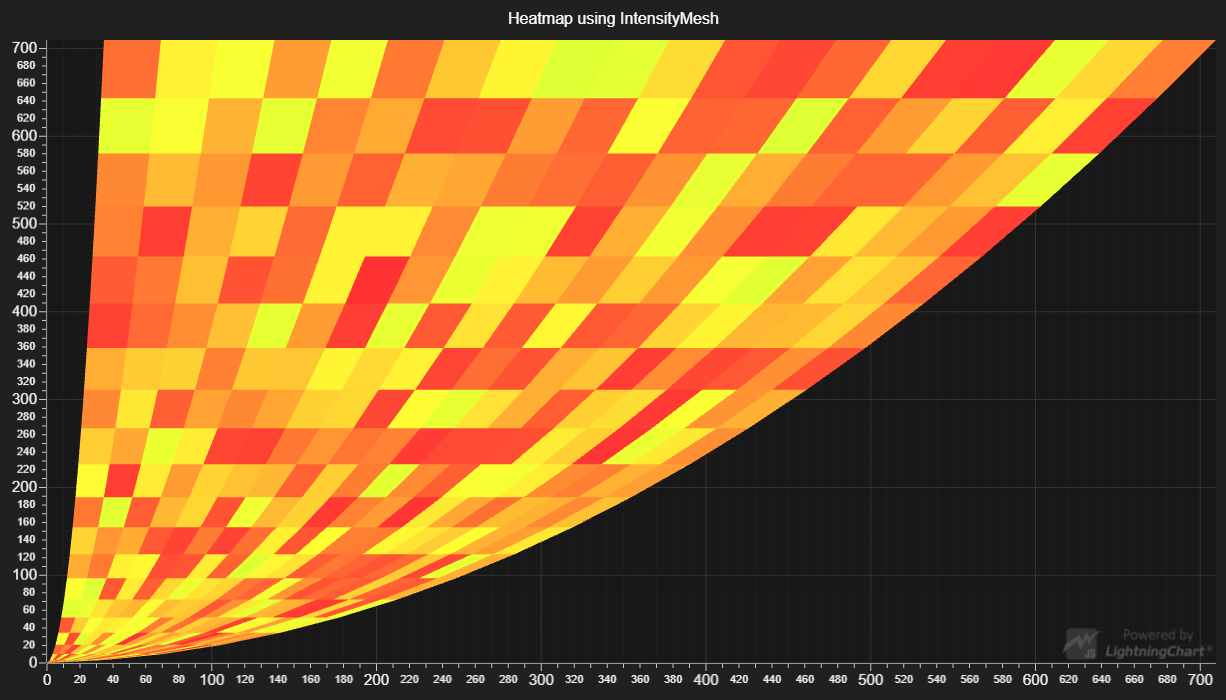
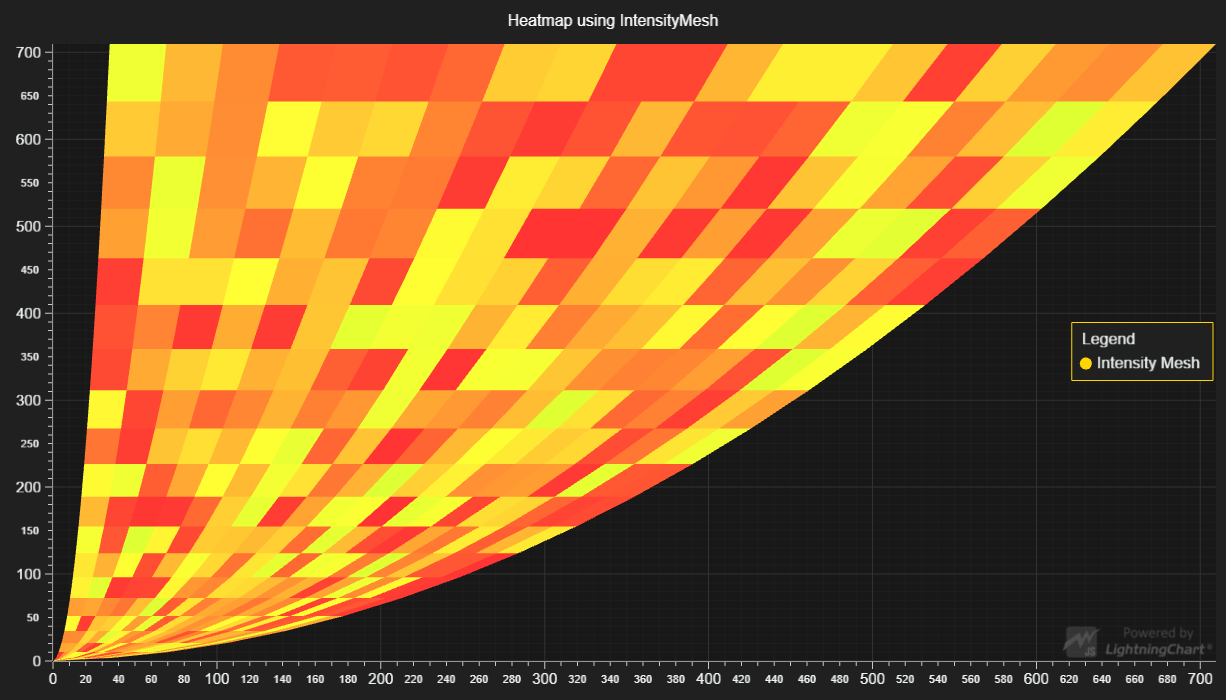
LCJS 3.0.0

diff --git a/src/index.js b/src/index.js
@@ -48,3 +48,6 @@ const heatmap = chart
         x: prev.x * Math.sin(degToRad(row + 1)),
         y: prev.x * Math.sin(degToRad(column + 1))
     }))
+
+// Add LegendBox to chart.
+const legend = chart.addLegendBox().add(chart)

diff --git a/README.md b/README.md
@@ -80,10 +80,10 @@ Direct developer email support can be purchased through a [Support Plan][4] or b
 © Arction Ltd 2009-2020. All rights reserved.
 
 
-[XY cartesian chart]: https://www.arction.com/lightningchart-js-api-documentation/v2.2.0/classes/chartxy.html
-[Intensity Mesh Series]: https://www.arction.com/lightningchart-js-api-documentation/v2.2.0/classes/intensitymeshseries.html
-[IndividualPointFill]: https://www.arction.com/lightningchart-js-api-documentation/v2.2.0/classes/individualpointfill.html
-[ColorHSV]: https://www.arction.com/lightningchart-js-api-documentation/v2.2.0/globals.html#colorhsv
-[Matrix]: https://www.arction.com/lightningchart-js-api-documentation/v2.2.0/globals.html#matrix
-[UpdateGeometryCallback]: https://www.arction.com/lightningchart-js-api-documentation/v2.2.0/globals.html#updategeometrycallback
+[XY cartesian chart]: https://www.arction.com/lightningchart-js-api-documentation/v3.0.0/classes/chartxy.html
+[Intensity Mesh Series]: https://www.arction.com/lightningchart-js-api-documentation/v3.0.0/classes/intensitymeshseries.html
+[IndividualPointFill]: https://www.arction.com/lightningchart-js-api-documentation/v3.0.0/classes/individualpointfill.html
+[ColorHSV]: https://www.arction.com/lightningchart-js-api-documentation/v3.0.0/globals.html#colorhsv
+[Matrix]: https://www.arction.com/lightningchart-js-api-documentation/v3.0.0/globals.html#matrix
+[UpdateGeometryCallback]: https://www.arction.com/lightningchart-js-api-documentation/v3.0.0/globals.html#updategeometrycallback
 
